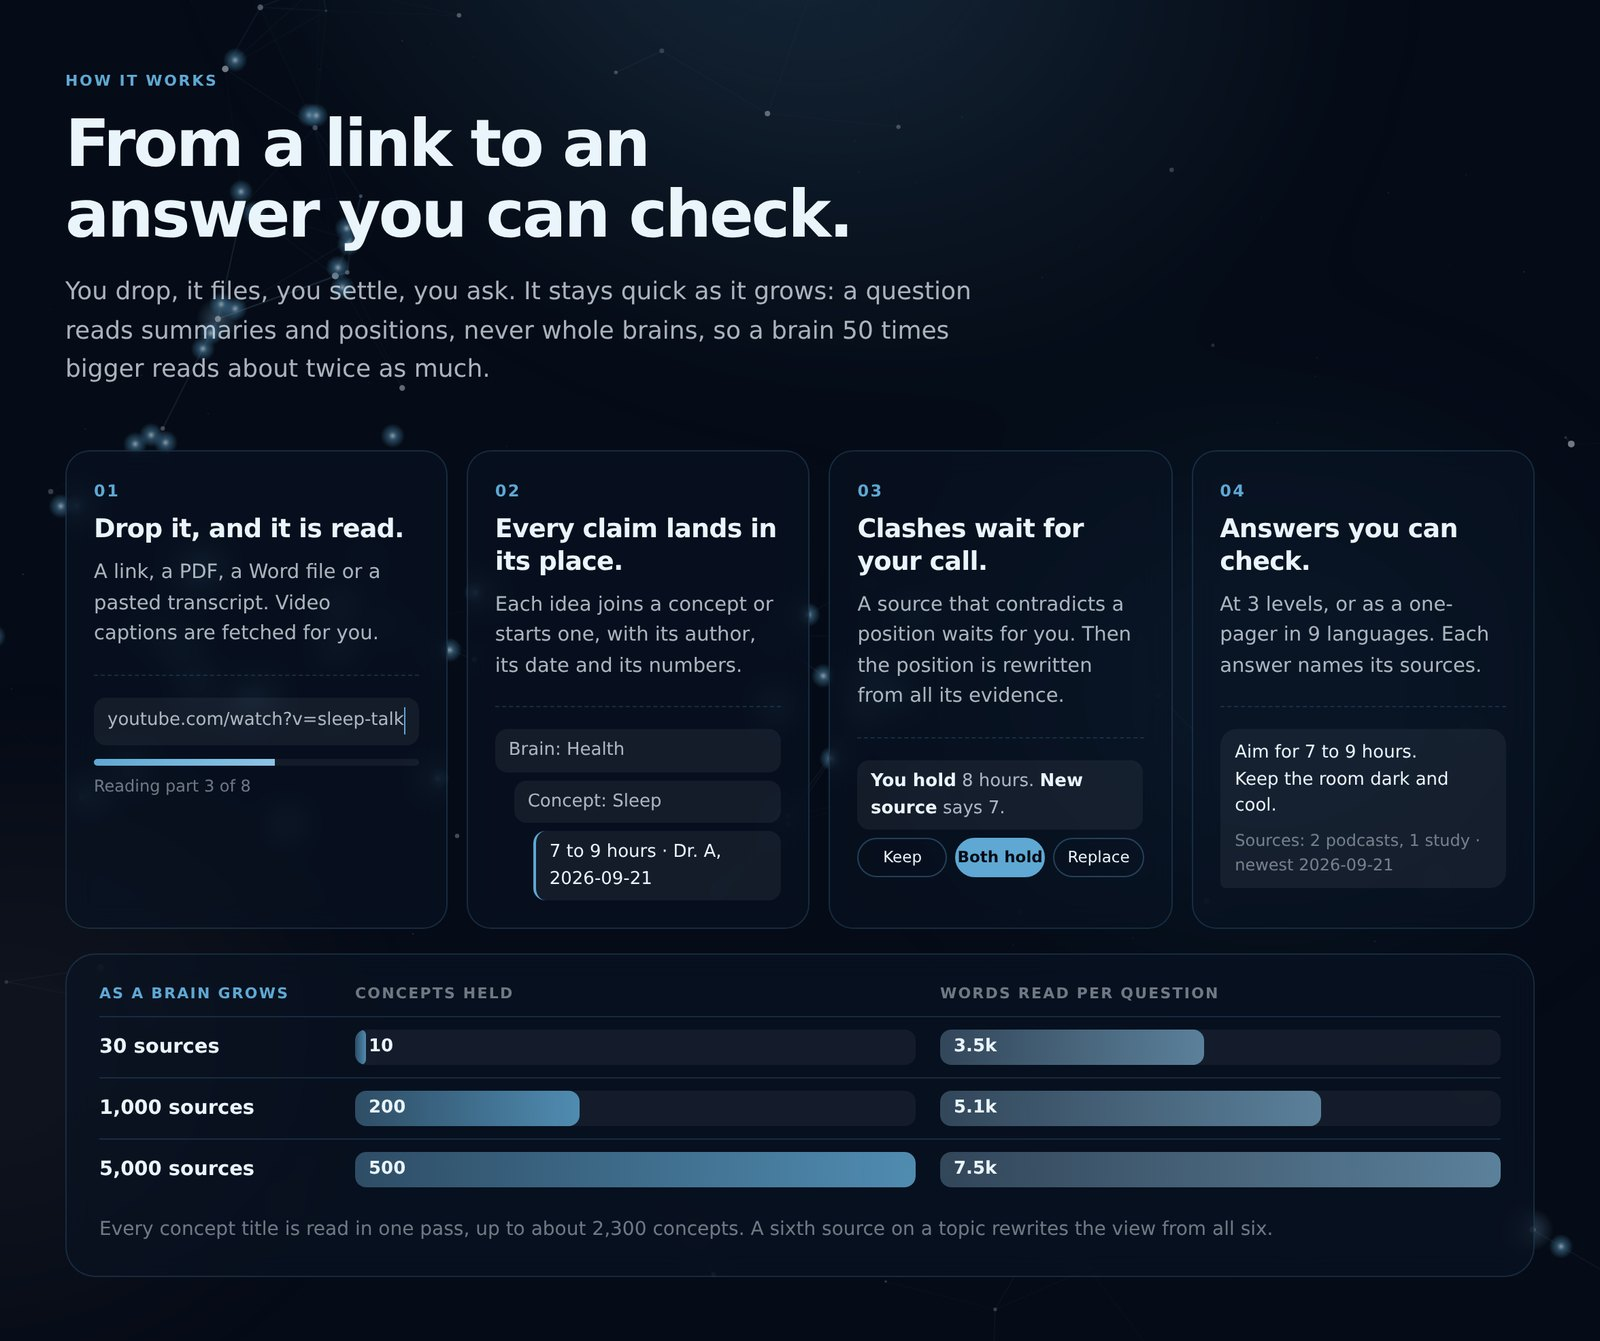
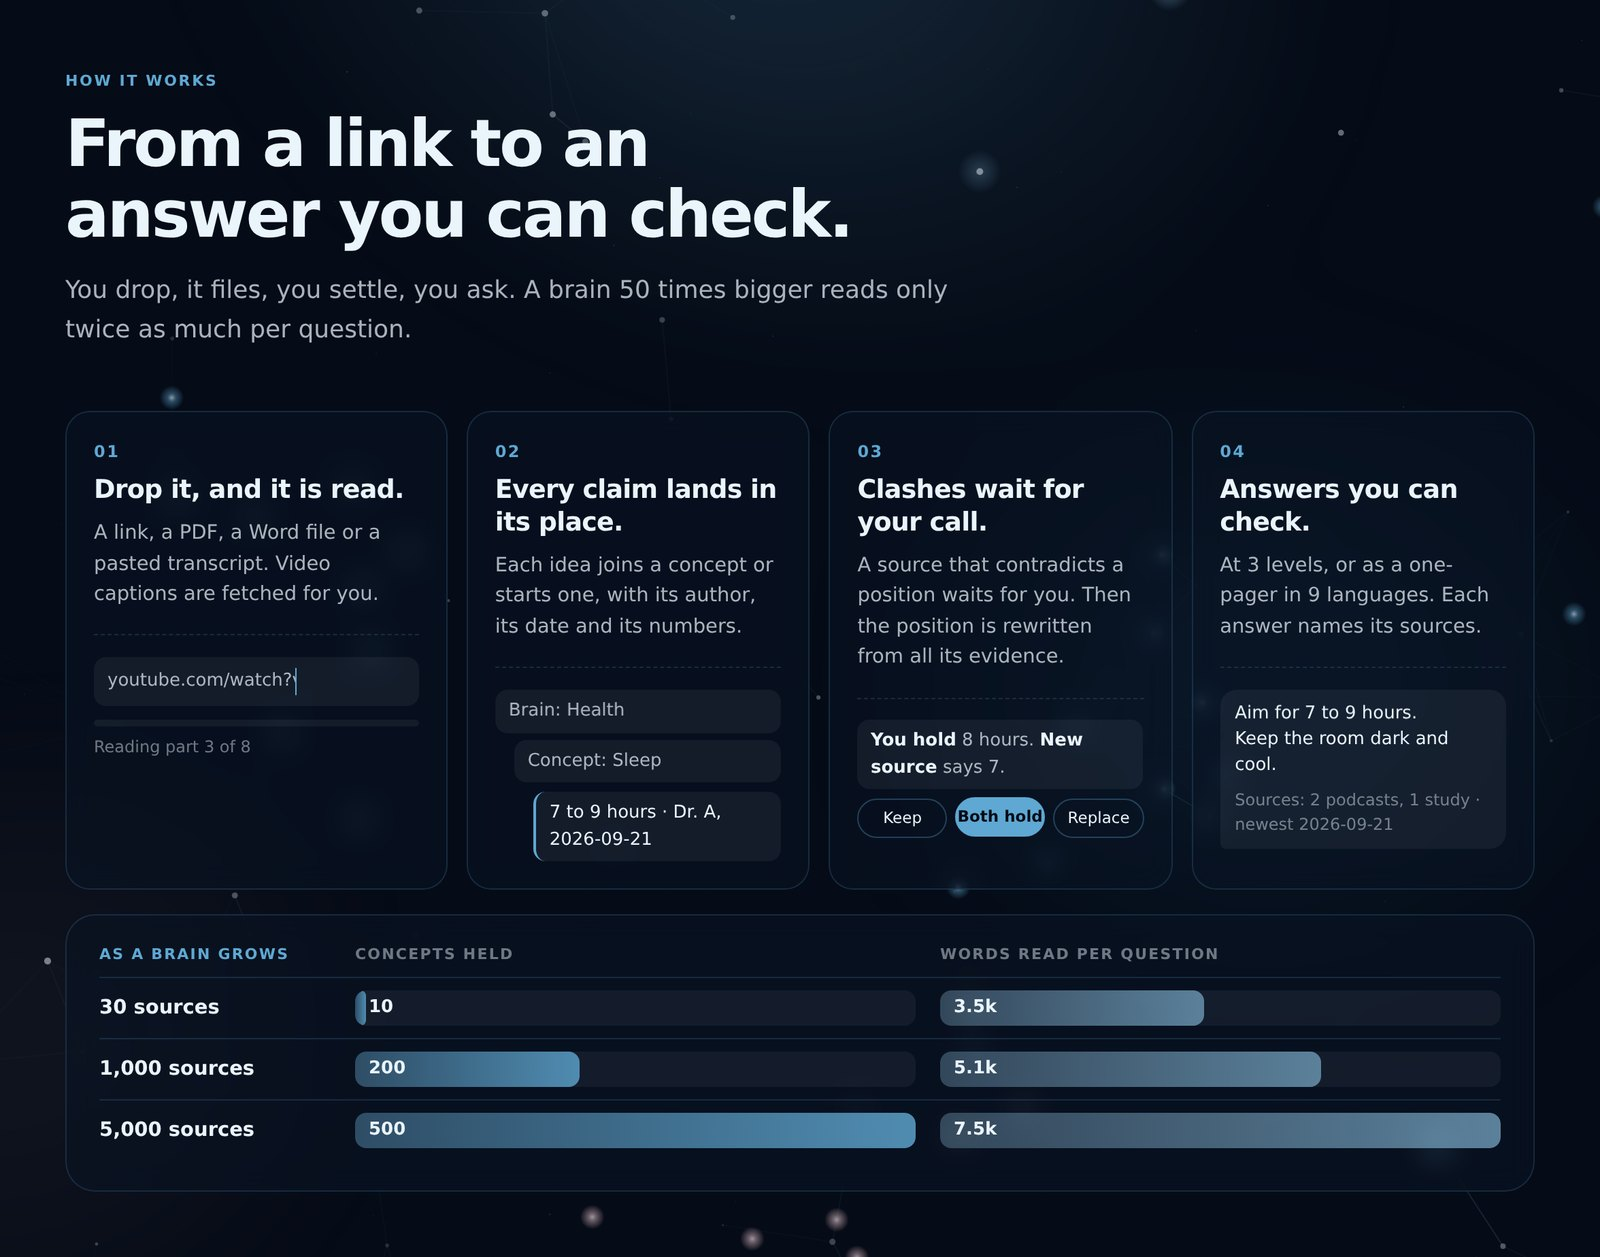
Landing: only what a judge needs, and a place for the demo video
Gone: the private Octopus and Squidgy doors (still at /octopus and
/squidgy), the pill over the headline, the scroll cue, two comparison rows
and the lines that repeated a heading. The list under the headline starts
with the demo. A video section waits under it, hidden until one line holds
the video's link: YouTube, Loom, Vimeo or an mp4.

Claude-Session: https://claude.ai/code/session_01NRWPtT3uQhafrf1yBXPVRY

diff --git a/app/index.html b/app/index.html
@@ -94,10 +94,6 @@
   /* ---- the hero: the headline, the line under it, and the workspaces ---- */
   .hero{ min-height:100dvh; display:flex; flex-direction:column; align-items:center; justify-content:center;
     padding:96px 20px 64px; text-align:center; }
-  .kicker{ display:inline-flex; align-items:center; gap:8px; margin-bottom:22px; padding:6px 13px 6px 8px; border-radius:999px;
-    border:1px solid var(--line-2); background:rgba(10,20,36,.55); font-size:13px; color:var(--ice-70); backdrop-filter:blur(8px); -webkit-backdrop-filter:blur(8px); }
-  .kicker b{ font-size:10.5px; font-weight:700; letter-spacing:.08em; text-transform:uppercase; color:var(--ink); background:var(--blue);
-    border-radius:999px; padding:3px 8px; }
   .hero h1{ max-width:1120px; font-size:clamp(40px, 5.9vw, 76px); line-height:1.04; font-weight:650; letter-spacing:-.04em; }
   @media (min-width:760px){ .hero h1 .nw{ white-space:nowrap; } }
   .hero h1 em{ font-style:normal;
@@ -164,13 +160,23 @@
   .again{ margin:6px 0 4px; font-size:13.5px; color:var(--ice-45); }
   .again a{ color:var(--ice-70); border-bottom:1px solid var(--line-2); }
   @media (hover:hover){ .again a:hover{ color:var(--blue); border-color:var(--blue); } }
-  .scroll{ margin-top:34px; display:flex; flex-direction:column; align-items:center; gap:6px; font-size:12px; letter-spacing:.08em;
-    text-transform:uppercase; color:var(--ice-45); }
-  .scroll i{ display:block; width:1px; height:34px; background:linear-gradient(var(--blue), transparent); animation:drip 2.4s var(--ease) infinite; transform-origin:top; }
-  @keyframes drip{ 0%{ transform:scaleY(0); opacity:0; } 30%{ opacity:1; } 100%{ transform:scaleY(1); opacity:0; } }
 
   /* ---- the bands below ---- */
   .band{ padding:clamp(52px, 7vw, 84px) 20px; }
+
+  /* The demo video: the poster until it plays. */
+  .video-band{ padding-top:0; margin-top:-24px; }
+  .vid{ position:relative; aspect-ratio:16/9; border-radius:22px; overflow:hidden; border:1px solid var(--line-2); background:#0a1424;
+    box-shadow:0 40px 120px -40px rgba(95,168,211,.45), 0 0 0 1px rgba(234,244,251,.03); }
+  .vid img{ width:100%; height:100%; object-fit:cover; display:block; filter:brightness(.62) saturate(.9); transition:filter .4s var(--ease); }
+  .vid .shade{ position:absolute; inset:0; background:radial-gradient(60% 60% at 50% 50%, rgba(5,11,22,.15), rgba(5,11,22,.7)); pointer-events:none; }
+  .vid iframe, .vid video{ position:absolute; inset:0; width:100%; height:100%; border:0; background:#000; }
+  .play{ position:absolute; left:50%; top:50%; width:84px; height:84px; margin:-42px 0 0 -42px; border-radius:50%; border:0; cursor:pointer;
+    background:var(--blue); color:var(--ink); display:grid; place-items:center; box-shadow:0 0 0 12px rgba(95,168,211,.18), 0 20px 50px -10px rgba(95,168,211,.7);
+    transition:transform .25s var(--ease), box-shadow .25s; }
+  .play svg{ width:34px; height:34px; fill:currentColor; margin-left:4px; }
+  @media (hover:hover){ .vid:hover img{ filter:brightness(.75); } .play:hover{ transform:scale(1.06); box-shadow:0 0 0 18px rgba(95,168,211,.16), 0 20px 50px -10px rgba(95,168,211,.8); } }
+  .vcap{ position:absolute; left:22px; bottom:18px; font-size:14px; font-weight:600; color:var(--ice); letter-spacing:-.01em; text-shadow:0 2px 12px rgba(0,0,0,.6); }
 
   /* Inside a brain: four things it does, each shown moving. */
   .tiles{ margin-top:40px; display:grid; grid-template-columns:repeat(2, 1fr); gap:16px; }
@@ -429,7 +435,7 @@
     footer .by{ margin-left:0; }
   }
   @media (prefers-reduced-motion:reduce){
-    .reveal, .scroll i, .aurora i, .deck .top, .deck .stamp{ animation:none !important; }
+    .reveal, .aurora i, .deck .top, .deck .stamp{ animation:none !important; }
     .deck .stamp{ opacity:1; }
     .map .arm{ stroke-dashoffset:0; } .map .sk, .map .lk, .map .red{ opacity:1; }
     .talk .b, .talk .rc{ opacity:1; transform:none; }
@@ -460,12 +466,11 @@
 
   <main>
     <section class="hero" id="top">
-      <a class="kicker reveal" href="#inside"><b>New</b>A personal brain that learns you</a>
       <h1 class="reveal" style="--d:80"><span class="nw">The knowledge you choose,</span><br> <em>organized.</em></h1>
       <p class="sub reveal" style="--d:160">Feed it the people and sources you trust. Ask anything, and see who said it.</p>
 
       <section class="spaces reveal" style="--d:260" id="start" aria-labelledby="spacesH">
-        <h2 class="tiny" id="spacesH">Workspaces</h2>
+        <h2 class="tiny" id="spacesH">Start here</h2>
         <ul>
           <li>
             <button class="item" id="demoGo" type="button">
@@ -476,24 +481,6 @@
               <svg class="arrow" viewBox="0 0 16 16" aria-hidden="true"><use href="#ar"/></svg>
             </button>
             <p class="row-msg" id="demoMsg" role="alert"></p>
-          </li>
-          <li>
-            <a class="item" href="/chat?w=octopus" id="goOctopus">
-              <img class="logo" src="/brand/logo-mark.png" alt="" width="24" height="24">
-              <span class="name">Octopus</span>
-              <span class="desc">The builder's own brains.</span>
-              <span class="tag">Private</span>
-              <svg class="arrow" viewBox="0 0 16 16" aria-hidden="true"><use href="#ar"/></svg>
-            </a>
-          </li>
-          <li>
-            <a class="item" href="/chat?w=squidgy" id="goSquidgy">
-              <img class="logo" src="/brand/squidgy-icon.png" alt="" width="24" height="24">
-              <span class="name">Squidgy</span>
-              <span class="desc">A second private workspace.</span>
-              <span class="tag">Private</span>
-              <svg class="arrow" viewBox="0 0 16 16" aria-hidden="true"><use href="#ar"/></svg>
-            </a>
           </li>
           <li>
             <details class="fold" id="wsCreate">
@@ -526,14 +513,22 @@
         <p class="again">Made a workspace already? <a href="/chat?w=" id="openMine">Open it with its name</a></p>
       </section>
 
-      <a class="scroll reveal" style="--d:420" href="#why">Why a brain<i></i></a>
     </section>
+
+    <section class="band video-band" id="video" hidden><div class="wide">
+      <div class="vid" id="vid">
+        <img src="/brand/video-poster.jpg" alt="" loading="lazy"><span class="shade"></span>
+        <button class="play" id="play" type="button" aria-label="Play the demo video">
+          <svg viewBox="0 0 24 24" aria-hidden="true"><path d="M8 5.5v13l11-6.5z"/></svg></button>
+        <span class="vcap">Brain in 2 minutes</span>
+      </div>
+    </div></section>
 
     <section class="band later" id="why"><div class="wide">
       <span class="eyebrow">What makes a brain</span>
       <h2>"Isn't it just ChatGPT with my files?"</h2>
-      <p class="lede">A classic AI chat answers from its training data. Karpathy's LLM wiki compiles your files into pages.
-        A brain compiles them into positions, each backed by dated evidence you can open, and asks you when two sources clash.</p>
+      <p class="lede">A chat answers from its training. A wiki stacks your files into pages. A brain turns them into positions,
+        each with dated evidence, and asks you when sources clash.</p>
 
       <div class="cmp" role="table" aria-label="A classic AI chat, Karpathy's LLM wiki and a brain, compared">
         <div class="cmp-row cmp-head" role="row"><span role="columnheader"></span><span role="columnheader">Classic AI chat</span><span role="columnheader">Karpathy's LLM wiki</span><span role="columnheader" class="me">Brain</span></div>
@@ -542,8 +537,6 @@
         <div class="cmp-row" role="row"><span role="rowheader">When sources disagree</span><span role="cell" data-l="Chat">Blended into one answer</span><span role="cell" data-l="Wiki">Left side by side in the pages</span><span role="cell" class="me" data-l="Brain">Flagged at each drop; you rule on each in a swipe</span></div>
         <div class="cmp-row" role="row"><span role="rowheader">New information</span><span role="cell" data-l="Chat">Frozen at the training date</span><span role="cell" data-l="Wiki">Added when you run the agent</span><span role="cell" class="me" data-l="Brain">Filed the day you drop it</span></div>
         <div class="cmp-row" role="row"><span role="rowheader">Whose view</span><span role="cell" data-l="Chat">An average of the internet</span><span role="cell" data-l="Wiki">Your topics</span><span role="cell" class="me" data-l="Brain">One brain per subject, per expert, or for you</span></div>
-        <div class="cmp-row" role="row"><span role="rowheader">Setup</span><span role="cell" data-l="Chat">A chat box</span><span role="cell" data-l="Wiki">Scripts, Obsidian and a coding agent</span><span role="cell" class="me" data-l="Brain">A web page, on desktop and phone</span></div>
-        <div class="cmp-row" role="row"><span role="rowheader">What you get</span><span role="cell" data-l="Chat">A reply</span><span role="cell" data-l="Wiki">Pages, slides and charts</span><span role="cell" class="me" data-l="Brain">Answers at 3 levels, one-pagers in 9 languages, a health score, a map</span></div>
       </div>
 
     </div></section>
@@ -551,7 +544,7 @@
     <section class="band later" id="uses"><div class="wide">
       <span class="eyebrow">Use cases</span>
       <h2>What will you build a brain for?</h2>
-      <p class="lede">One brain per subject, one per expert you follow, or one for you. Pick a use case: see what goes in, and what comes out.</p>
+      <p class="lede">One brain per subject, per expert, or for you. Pick one: what goes in, what comes out.</p>
       <div class="usebox">
         <div class="tabs" role="tablist" aria-label="Use cases" id="useTabs"></div>
         <div class="usepanel" id="usePanel" role="tabpanel">
@@ -571,8 +564,7 @@
     <section class="band later" id="how"><div class="wide">
       <span class="eyebrow">How it works</span>
       <h2>From a link to an answer you can check.</h2>
-      <p class="lede">You drop, it files, you settle, you ask. It stays quick as it grows: a question reads summaries and positions,
-        never whole brains, so a brain 50 times bigger reads about twice as much.</p>
+      <p class="lede">You drop, it files, you settle, you ask. A brain 50 times bigger reads only twice as much per question.</p>
       <div class="steps">
         <div class="step"><h3>Drop it, and it is read.</h3>
           <p>A link, a PDF, a Word file or a pasted transcript. Video captions are fetched for you.</p>
@@ -594,7 +586,6 @@
         <div class="sc-r"><b>30 sources</b><span class="sc-b"><i style="--w:2%"></i><em>10</em></span><span class="sc-b rd"><i style="--w:47%"></i><em>3.5k</em></span></div>
         <div class="sc-r"><b>1,000 sources</b><span class="sc-b"><i style="--w:40%"></i><em>200</em></span><span class="sc-b rd"><i style="--w:68%"></i><em>5.1k</em></span></div>
         <div class="sc-r"><b>5,000 sources</b><span class="sc-b"><i style="--w:100%"></i><em>500</em></span><span class="sc-b rd"><i style="--w:100%"></i><em>7.5k</em></span></div>
-        <p class="sc-n">Every concept title is read in one pass, up to about 2,300 concepts. A sixth source on a topic rewrites the view from all six.</p>
       </div>
     </div></section>
 
@@ -651,7 +642,6 @@
     <section class="band end later" id="go"><div class="wide">
       <div class="final">
         <h2>Feed it what you read. Ask it what you know.</h2>
-        <p class="lede">Open the demo, no sign-up. Or make your own workspace on your own key, in a minute.</p>
         <div class="ctas">
           <button class="btn main" id="demoGo2" type="button">Open the demo</button>
           <a class="btn" href="#start" id="makeGo">Create your workspace</a>
@@ -751,6 +741,33 @@
     if (st.demo !== false) return;
     for (const [b, m] of [["demoGo", "demoMsg"], ["demoGo2", "demoMsg2"]]) { $(b).disabled = true; $(m).textContent = "The demo opens soon."; }
   }).catch(() => {});
+
+  /**
+   * The demo video. Paste its link here: YouTube, Loom, Vimeo, or an .mp4
+   * under app/. While it is empty, the section stays hidden.
+   */
+  const VIDEO = "";
+  (() => {
+    if (!VIDEO) return;
+    $("video").hidden = false;
+    $("play").onclick = () => {
+      const yt = VIDEO.match(/(?:youtu\.be\/|[?&]v=|shorts\/|embed\/)([\w-]{11})/);
+      const loom = VIDEO.match(/loom\.com\/(?:share|embed)\/(\w+)/);
+      const vimeo = VIDEO.match(/vimeo\.com\/(?:video\/)?(\d+)/);
+      let el;
+      if (/\.(mp4|webm)(\?|$)/i.test(VIDEO)) {
+        el = document.createElement("video");
+        Object.assign(el, { src: VIDEO, controls: true, autoplay: true, playsInline: true });
+      } else {
+        el = document.createElement("iframe");
+        el.allow = "autoplay; fullscreen; picture-in-picture"; el.allowFullscreen = true; el.title = "Brain, the demo video";
+        el.src = yt ? `https://www.youtube-nocookie.com/embed/${yt[1]}?autoplay=1&rel=0`
+          : loom ? `https://www.loom.com/embed/${loom[1]}?autoplay=1`
+          : vimeo ? `https://player.vimeo.com/video/${vimeo[1]}?autoplay=1` : VIDEO;
+      }
+      $("vid").replaceChildren(el);
+    };
+  })();
 
   /* The sections below rise as they come into view. */
   (() => {
